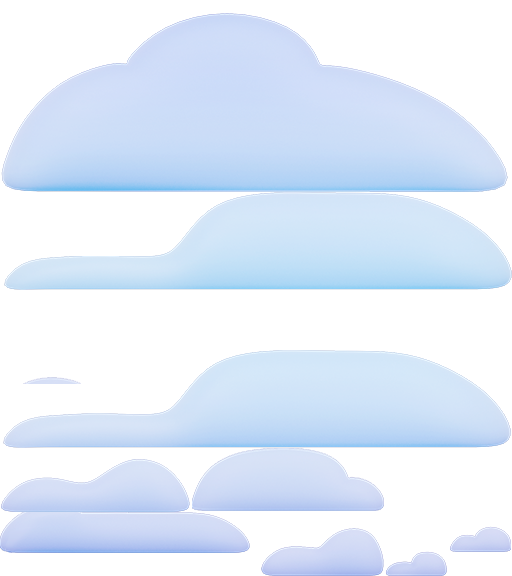
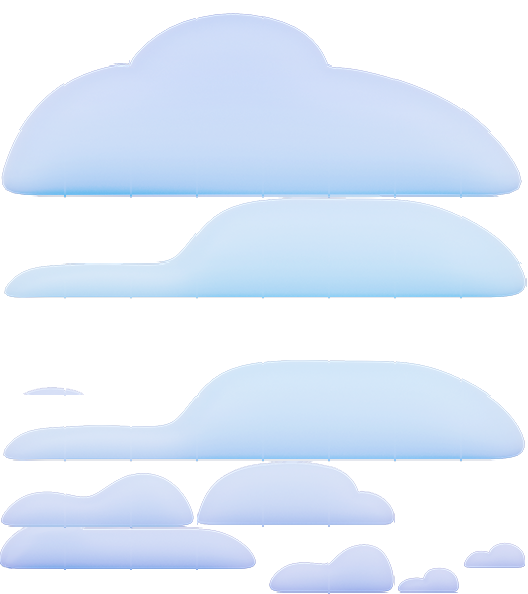
second section done

diff --git a/assets/map/tiles/tile_plains_hills_v02.tsx b/assets/map/tiles/tile_plains_hills_v02.tsx
@@ -1,4 +1,4 @@
 <?xml version="1.0" encoding="UTF-8"?>
-<tileset version="1.10" tiledversion="1.10.2" name="tile_plains_hills_v02" tilewidth="64" tileheight="64" tilecount="216" columns="27">
- <image source="tile_plains_hills_v02.png" width="1728" height="256"/>
+<tileset version="1.10" tiledversion="1.10.2" name="tile_plains_hills_v02" tilewidth="64" tileheight="64" spacing="2" tilecount="216" columns="27">
+ <image source="tile_plains_hills_v02.png" width="1782" height="528"/>
 </tileset>

diff --git a/assets/map/tiles/tile_plains_hills_v01.tsx b/assets/map/tiles/tile_plains_hills_v01.tsx
@@ -1,4 +1,4 @@
 <?xml version="1.0" encoding="UTF-8"?>
-<tileset version="1.10" tiledversion="1.10.2" name="tile_plains_hills_v01" tilewidth="64" tileheight="64" tilecount="78" columns="13">
- <image source="tile_plains_hills_v01.png" width="832" height="384"/>
+<tileset version="1.10" tiledversion="1.10.2" name="tile_plains_hills_v01" tilewidth="64" tileheight="64" spacing="2" tilecount="78" columns="13">
+ <image source="tile_plains_hills_v01.png" width="858" height="396"/>
 </tileset>

diff --git a/assets/map/tiles/tile_clouds_BG.tsx b/assets/map/tiles/tile_clouds_BG.tsx
@@ -1,4 +1,4 @@
 <?xml version="1.0" encoding="UTF-8"?>
-<tileset version="1.10" tiledversion="1.10.2" name="tile_clouds_BG" tilewidth="64" tileheight="64" tilecount="72" columns="8">
- <image source="tile_clouds_BG.png" width="512" height="576"/>
+<tileset version="1.10" tiledversion="1.10.2" name="tile_clouds_BG" tilewidth="64" tileheight="64" spacing="2" tilecount="72" columns="8">
+ <image source="tile_clouds_BG.png" width="528" height="594"/>
 </tileset>
